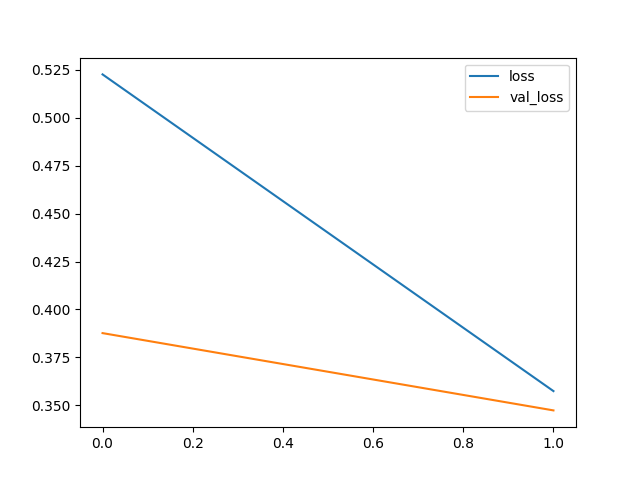
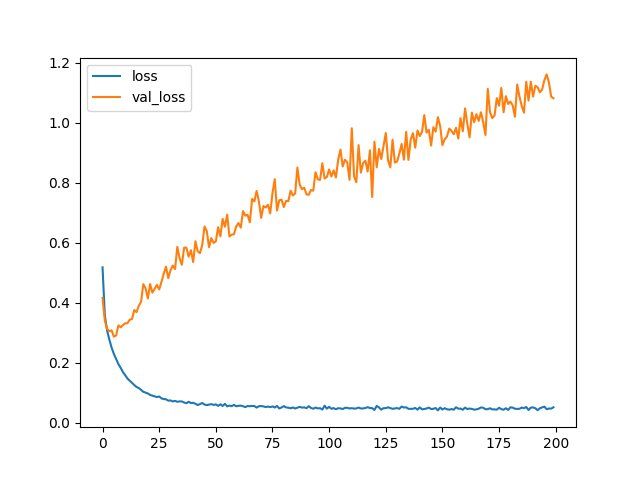
up

diff --git a/Udemy/DeepLearning-AdvancedComputerVision/Src/_32_CNN_Fashion_MNIST.py b/Udemy/DeepLearning-AdvancedComputerVision/Src/_32_CNN_Fashion_MNIST.py
@@ -134,7 +134,7 @@ def plot_confusion_matrix(model, x_test, y_test, out_dir, n_miss_examples = 1):
         count += 1
 
 def main():
-    n_epochs = 2
+    n_epochs = 200
     out_dir = "32"
     (x_train, y_train), (x_test, y_test), K = load_fashion_mnist(out_dir)
     model = build_the_model(input_shape=x_train[0].shape, number_of_classes=K)
